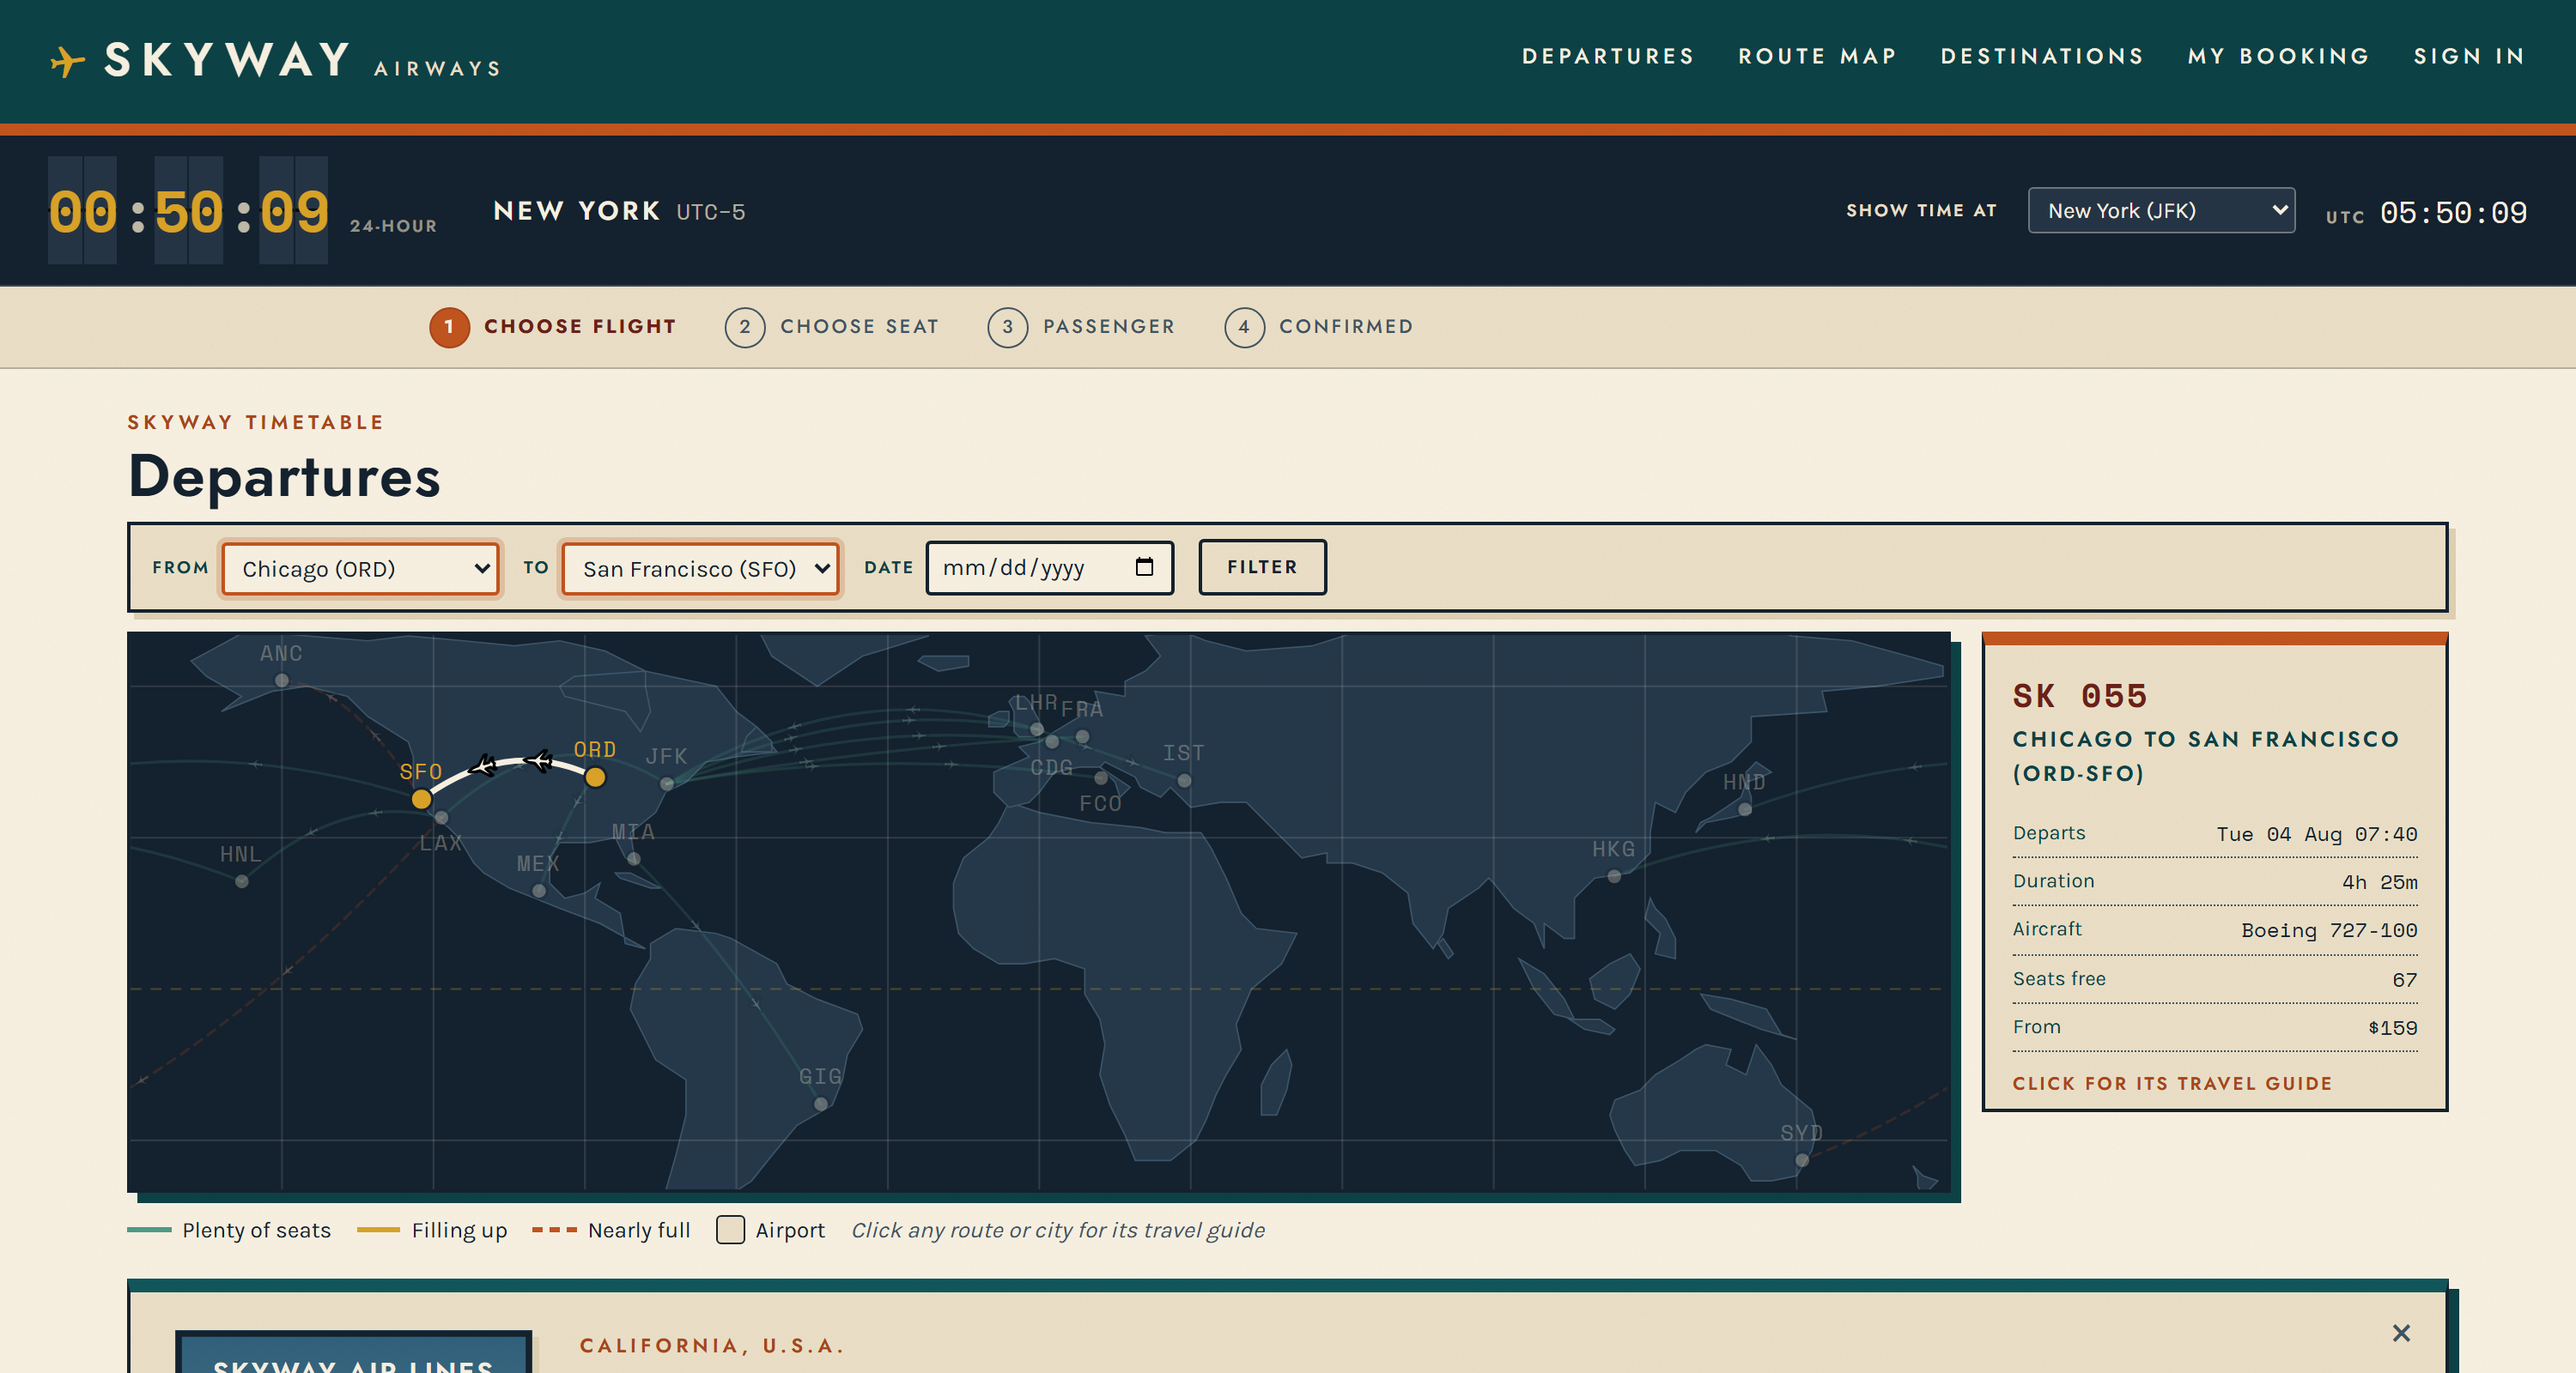
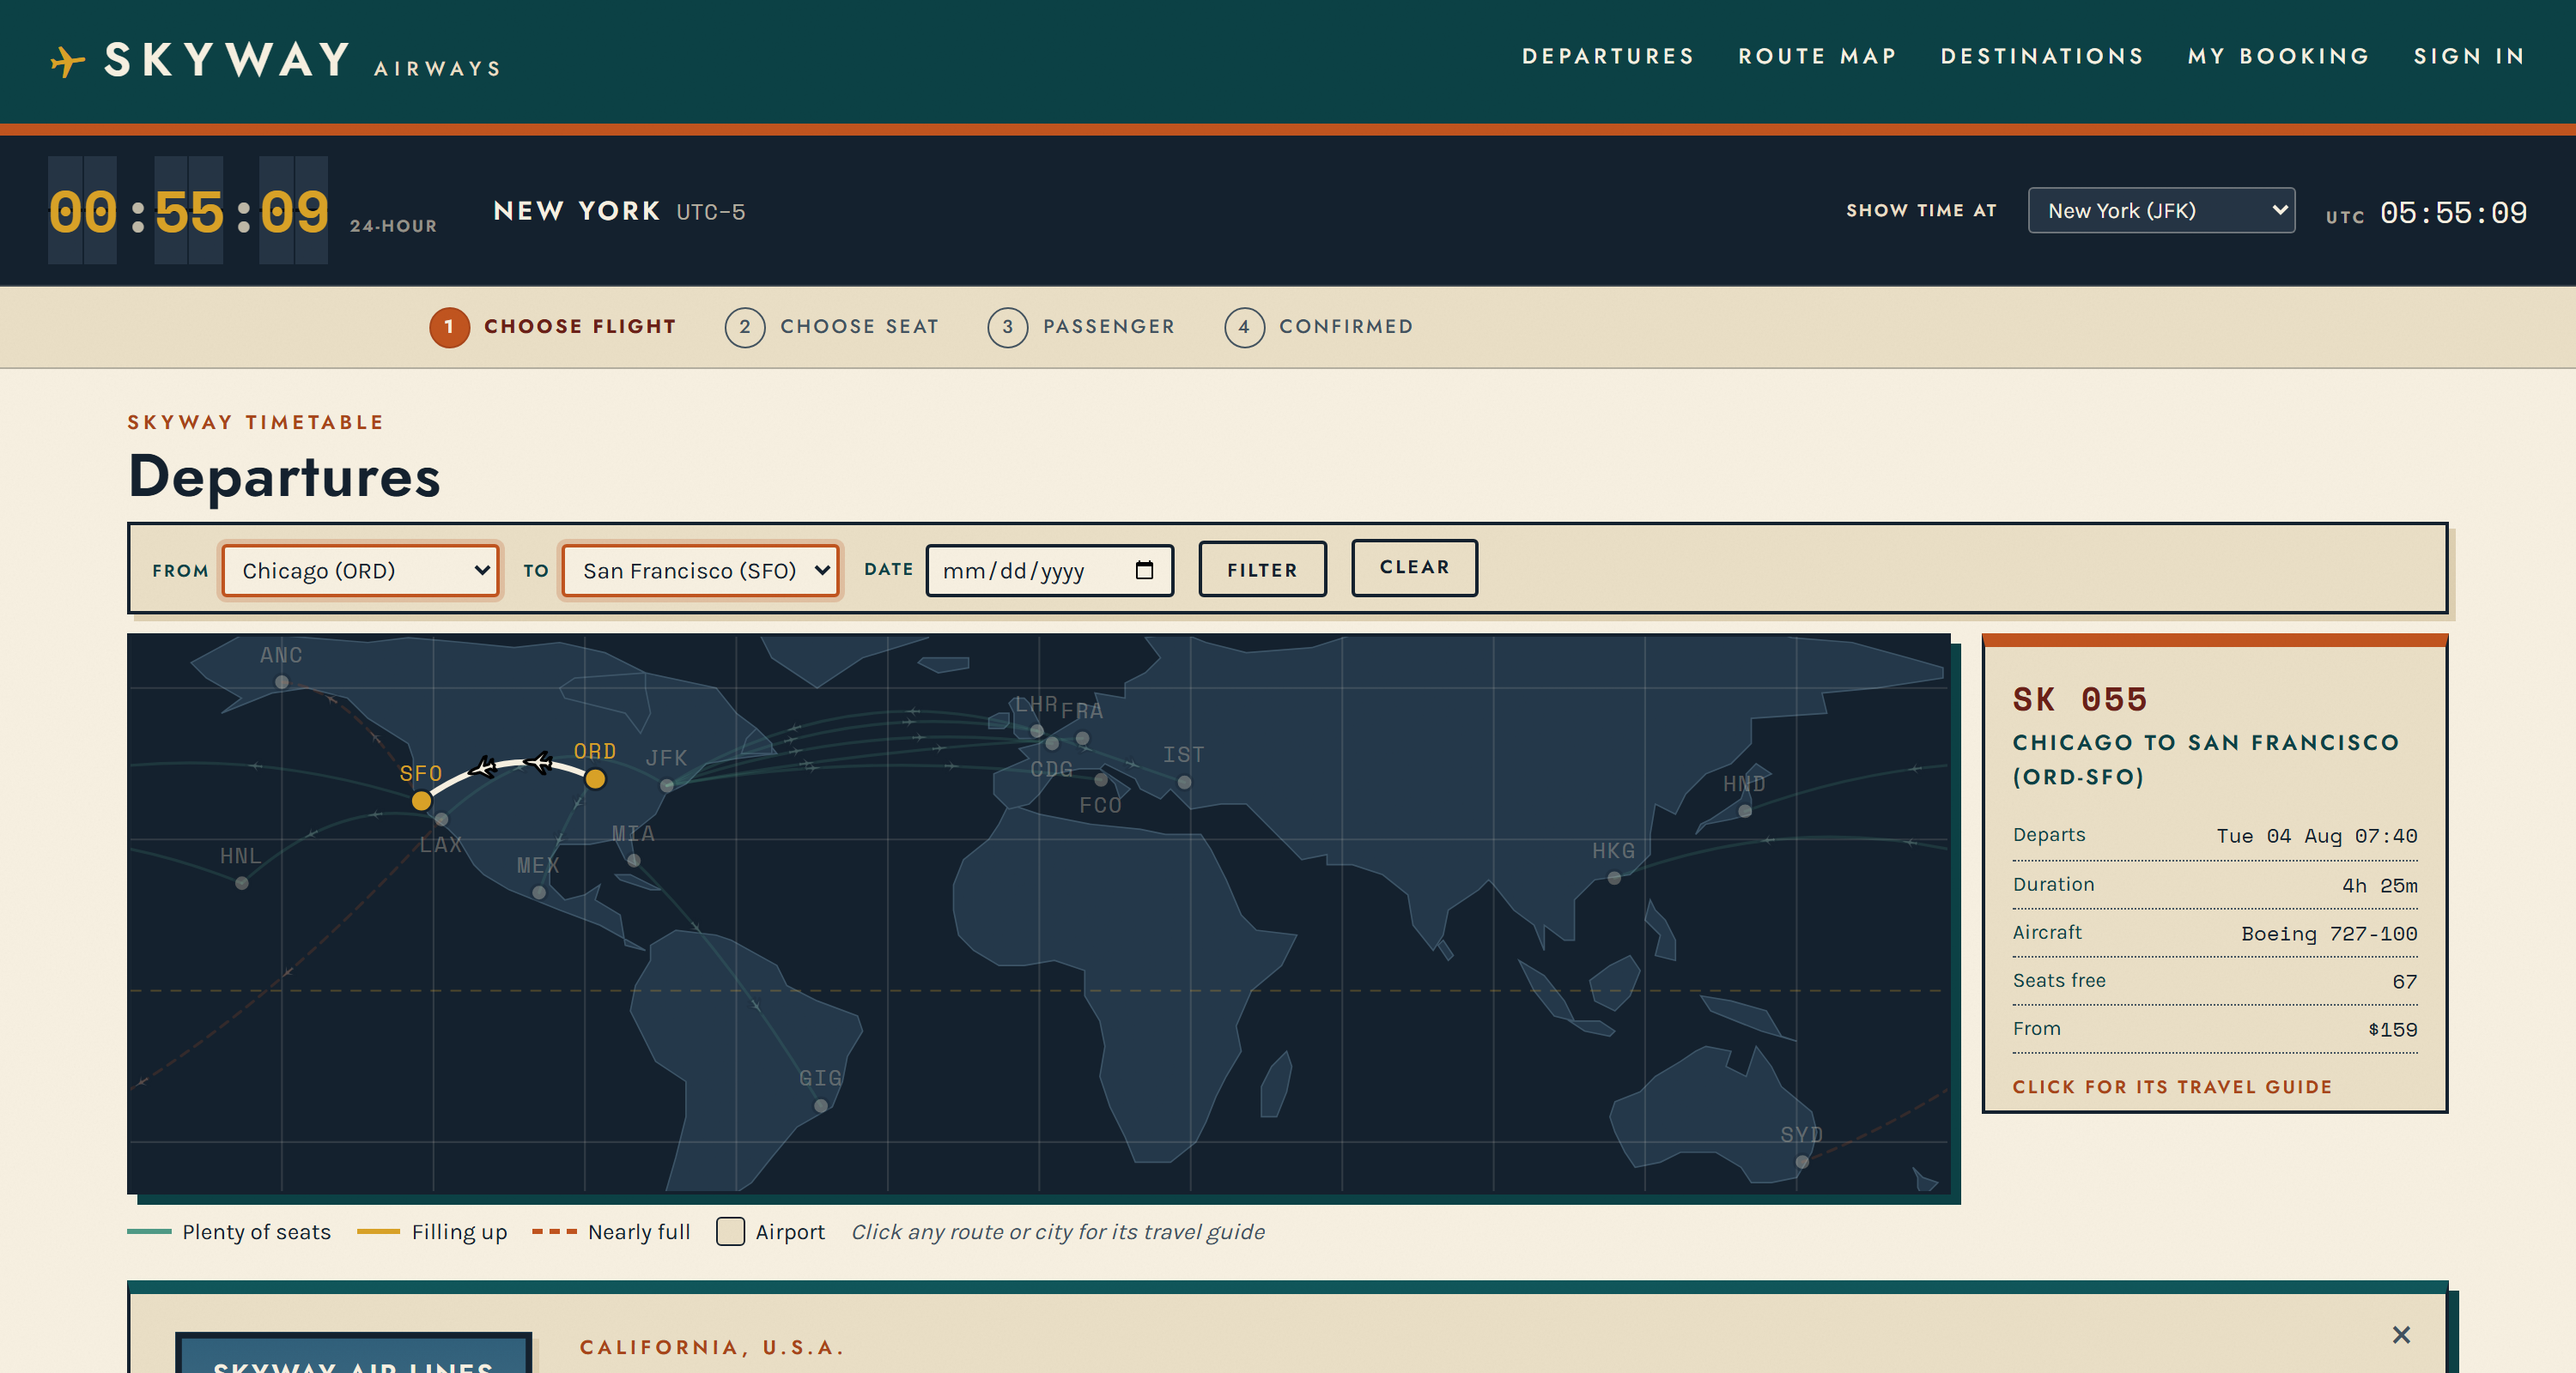
Clear the filters a selection set, on deselect or on demand
Picking a route filled From/To but nothing gave them back.

Clear was built conditionally on the server-side criteria, so it was
absent from the page in exactly the case that now needed it: a filter set
live by a selection, with the board unfiltered. It is always rendered and
hidden when there is nothing to clear; the script reveals it the moment a
field holds anything. Still a plain link to /flights, so it works without
JavaScript, and the handler only intercepts when the board itself is not
filtered - undoing that needs a real request.

Deselecting a route now hands the filters back too, whether that is
clicking the same departure again, the panel's close button, or Escape.
Only the ones we set: `is-synced` marks them as ours and any hand-driven
edit removes the mark, so a From you chose yourself survives. The date is
never touched either way - picking a route says nothing about which day
you wanted.

95/95 pytest (7 new), 23/23 browser checks covering the whole cycle:
select, deselect, clear by button, and a hand-set date surviving both.

diff --git a/static/js/routemap.js b/static/js/routemap.js
@@ -204,6 +204,9 @@
     selection = null;
     panel.hidden = true;
     panelBody.innerHTML = "";
+    // Deselecting undoes what selecting did. Only the filters we set go with
+    // it — `is-synced` is what tells those apart from ones typed by hand.
+    releaseSyncedFilters();
     reset();
   }
 
@@ -289,6 +292,41 @@
     reset();
   }
 
+  var clearLink = document.getElementById("clear-filters");
+
+  /* Offer Clear whenever a field holds anything, however it got there. */
+  function showClear() {
+    if (!clearLink) return;
+    clearLink.hidden = ![originField, destField, dateField].some(function (field) {
+      return field && field.value;
+    });
+  }
+
+  /* Whether the board itself was filtered, as opposed to only this form. */
+  function boardIsFiltered() {
+    var params = new URLSearchParams(window.location.search);
+    return ["origin", "dest", "date"].some(function (name) {
+      return (params.get(name) || "") !== "";
+    });
+  }
+
+  if (clearLink) {
+    clearLink.addEventListener("click", function (event) {
+      // A filtered board can only be undone by a fresh request, so let the
+      // link do what it says. A preview we set ourselves should not cost one.
+      if (boardIsFiltered()) return;
+
+      event.preventDefault();
+      if (searchForm) searchForm.classList.remove("is-synced");
+      [originField, destField, dateField].forEach(function (field) {
+        setField(field, "");
+      });
+      if (panel && !panel.hidden) closeGuide();
+      applyFilters();
+      showClear();
+    });
+  }
+
   [originField, destField, dateField].forEach(function (field) {
     if (!field) return;
     field.addEventListener("change", applyFilters);
@@ -315,16 +353,30 @@
      Preview only, which is how these filters have always behaved: the board
      itself still changes when the form is submitted. */
   function syncFilters(origin, dest) {
-    var moved = setField(originField, origin);
-    if (setField(destField, dest)) moved = true;
-    if (moved && searchForm) searchForm.classList.add("is-synced");
+    setField(originField, origin);
+    setField(destField, dest);
+    if (searchForm) searchForm.classList.add("is-synced");
+    showClear();
   }
 
-  // any hand-driven change clears the "we set this for you" cue
+  /* Give back the From/To we filled in, if they are still ours. The date is
+     never touched: picking a route says nothing about which day you wanted. */
+  function releaseSyncedFilters() {
+    if (!searchForm || !searchForm.classList.contains("is-synced")) return false;
+    searchForm.classList.remove("is-synced");
+    setField(originField, "");
+    setField(destField, "");
+    showClear();
+    return true;
+  }
+
+  /* Any hand-driven change makes the fields the visitor's, not ours: the cue
+     goes, and deselecting a route will no longer clear them. */
   [originField, destField, dateField].forEach(function (field) {
     if (!field) return;
     field.addEventListener("input", function () {
       if (searchForm) searchForm.classList.remove("is-synced");
+      showClear();
     });
   });
 
@@ -369,4 +421,5 @@
 
   // A filtered page load should arrive with the map already showing the filter.
   applyFilters();
+  showClear();
 })();

diff --git a/templates/flights.html b/templates/flights.html
@@ -36,9 +36,12 @@
     <input type="date" id="date" name="date" value="{{ criteria.date or '' }}">
   </div>
   <button class="btn" type="submit">Filter</button>
-  {% if criteria.origin or criteria.dest or criteria.date %}
-    <a class="btn btn--ghost" href="{{ url_for('flight_list') }}">Clear</a>
-  {% endif %}
+  {# Always rendered so the script can reveal it the moment picking a route
+     fills these fields — built conditionally, it was absent from the page
+     exactly when a selection had just set a filter there was no way to undo.
+     Hidden when there is nothing to clear; a link, so it works without JS. #}
+  <a class="btn btn--ghost" id="clear-filters" href="{{ url_for('flight_list') }}"
+     {{ '' if (criteria.origin or criteria.dest or criteria.date) else 'hidden' }}>Clear</a>
 </form>
 
 {# The map sits directly above the board so the network and the timetable are

diff --git a/tests/test_filters.py b/tests/test_filters.py
@@ -1,0 +1,65 @@
+"""The From/To filters, and the Clear control that has to accompany them."""
+
+import re
+
+
+def test_clear_is_always_rendered_so_the_script_can_reveal_it(client):
+    """Built conditionally, it was absent from the page exactly when picking a
+    route had just set a filter there was no way to undo."""
+    body = client.get("/flights").get_data(as_text=True)
+    assert 'id="clear-filters"' in body
+    assert re.search(r'id="clear-filters"[^>]*\shidden', body), "should start hidden"
+
+
+def test_clear_is_showing_when_the_board_arrives_filtered(client):
+    body = client.get("/flights?origin=JFK").get_data(as_text=True)
+    assert 'id="clear-filters"' in body
+    assert not re.search(r'id="clear-filters"[^>]*\shidden', body)
+
+
+def test_clear_is_a_plain_link_so_it_works_without_javascript(client):
+    body = client.get("/flights?origin=JFK").get_data(as_text=True)
+    assert re.search(r'<a[^>]*id="clear-filters"[^>]*href="/flights"', body)
+
+
+def test_a_board_row_carries_both_ends_of_its_route(client):
+    """The script reads these to fill the dropdowns."""
+    body = client.get("/flights").get_data(as_text=True)
+    rows = re.findall(r'<tr class="board__row"[^>]*>', body)
+    assert rows
+    for row in rows:
+        assert "data-origin-code=" in row
+        assert "data-dest-code=" in row
+
+
+def test_every_code_the_rows_offer_is_a_real_dropdown_option(client):
+    """setField refuses a code the <select> does not have, so a mismatch would
+    silently do nothing rather than fail loudly."""
+    body = client.get("/flights").get_data(as_text=True)
+
+    options = set(re.findall(r'<option value="([A-Z]{3})"', body))
+    codes = set(re.findall(r'data-origin-code="([^"]+)"', body))
+    codes |= set(re.findall(r'data-dest-code="([^"]+)"', body))
+
+    assert codes, "no routes on the board"
+    assert codes <= options, codes - options
+
+
+def test_the_arcs_carry_the_same_pair(client):
+    """`class="arc"` exactly — .arc__hit is the wide invisible hit target and
+    carries no data of its own; the route lives on the group around it."""
+    body = client.get("/flights").get_data(as_text=True)
+    arcs = re.findall(r'<a class="arc [^"]*"[^>]*>', body, re.S)
+    assert arcs, "no route links found"
+    for arc in arcs:
+        assert "data-origin=" in arc and "data-dest=" in arc, arc
+
+
+def test_clearing_by_link_returns_the_unfiltered_board(client, conn):
+    import db as database
+
+    filtered = client.get("/flights?origin=JFK").get_data(as_text=True)
+    everything = client.get("/flights").get_data(as_text=True)
+
+    assert filtered.count('class="board__row"') < everything.count('class="board__row"')
+    assert everything.count('class="board__row"') == len(database.get_flights(conn))
